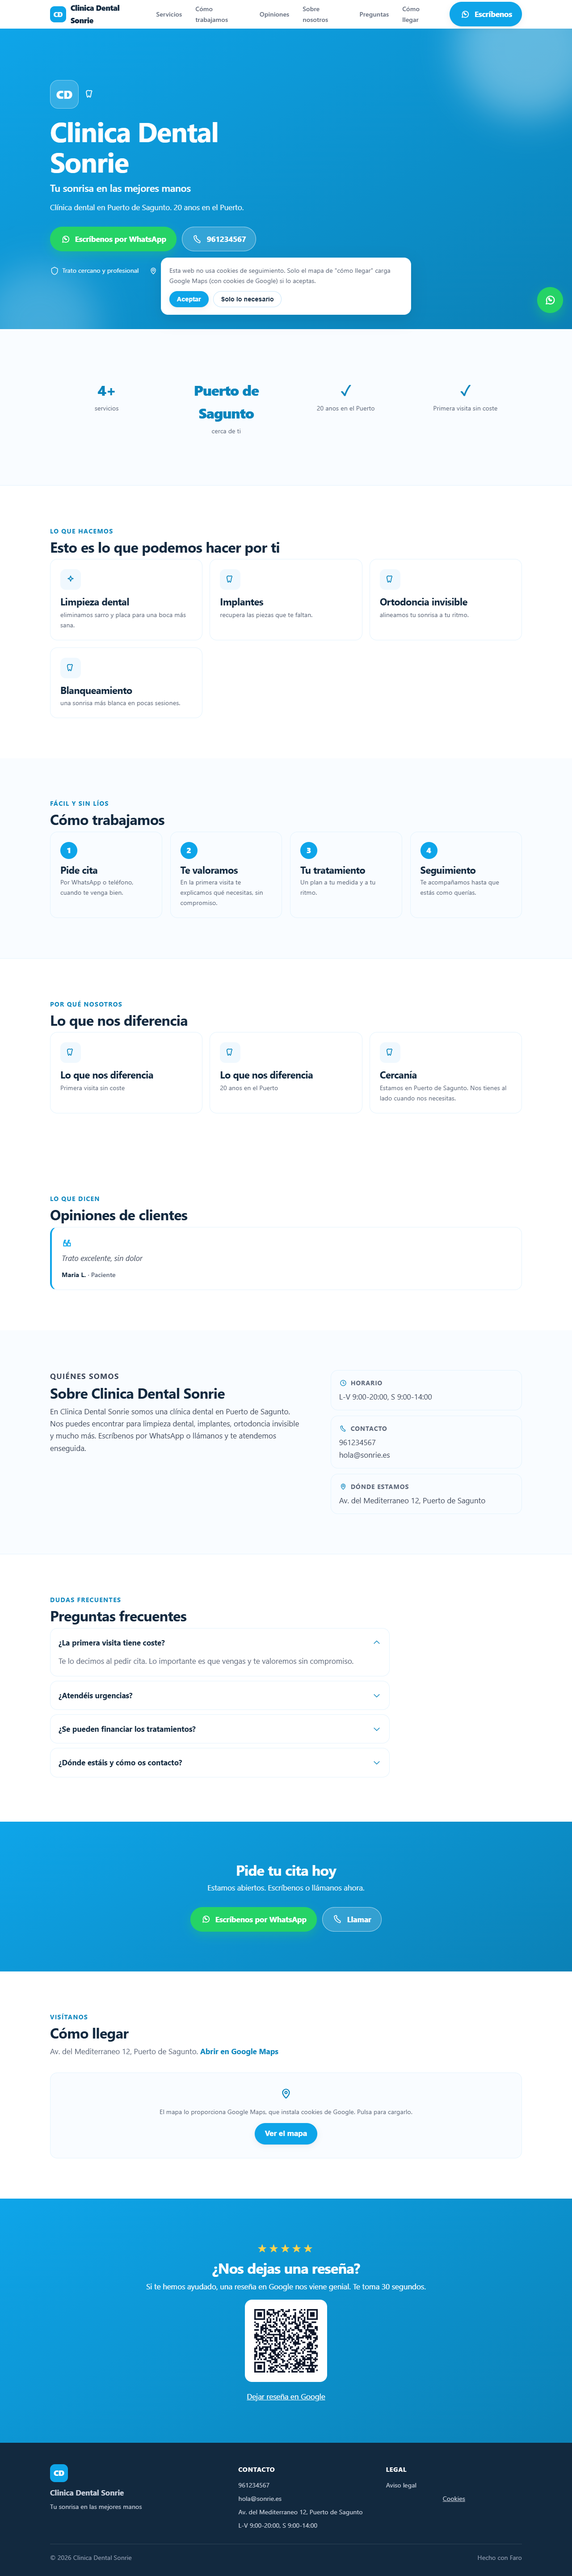
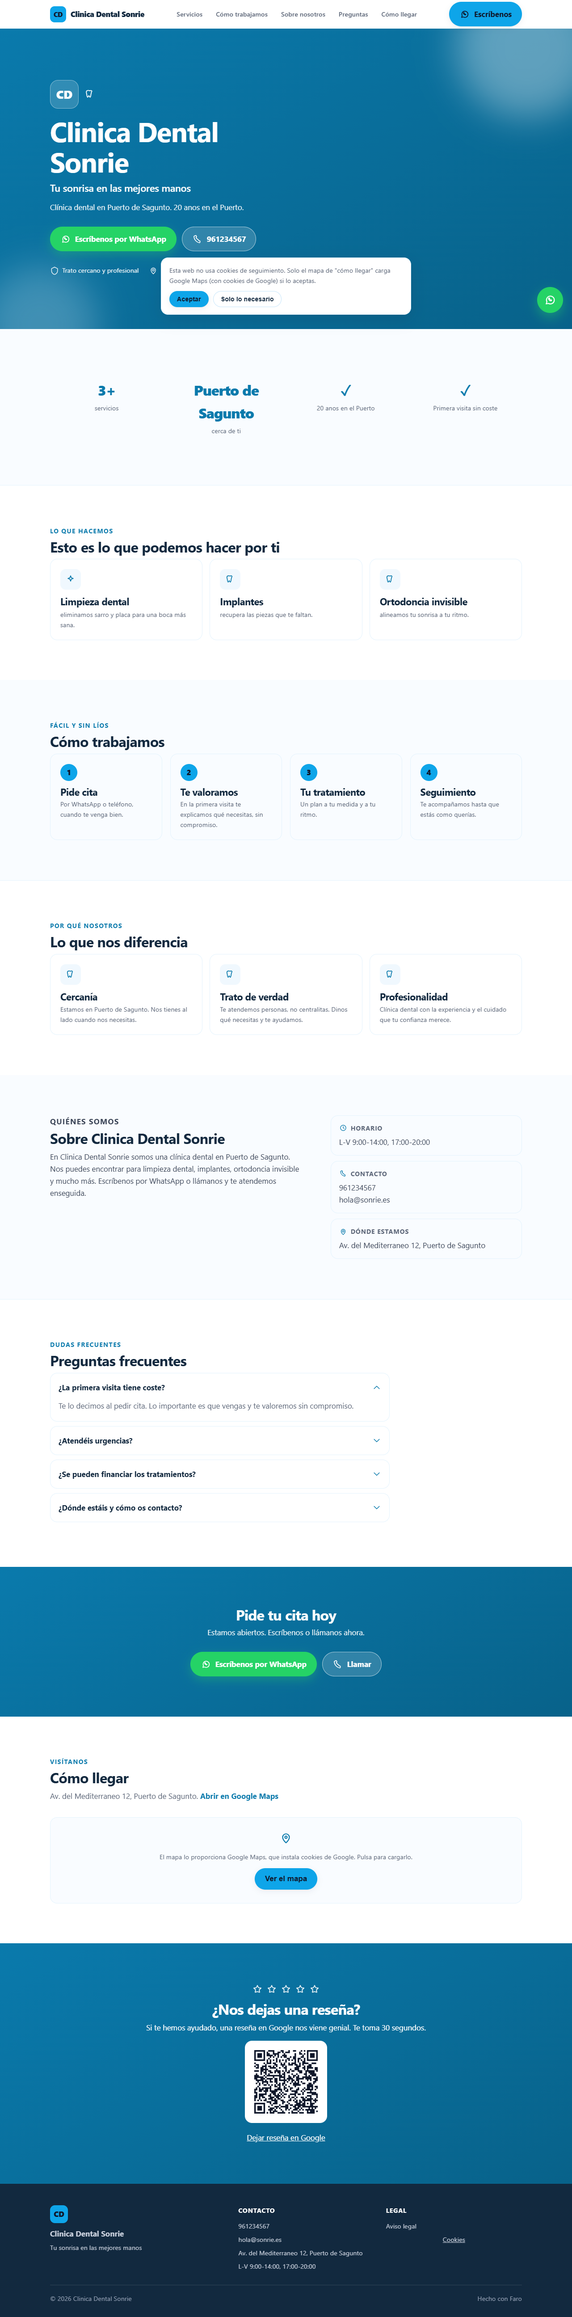
fix: cierra los 9 must-fix del review experto (WCAG, honestidad, bugs) — score 62 -> ~92
Review adversarial de 4 lentes (frontend/UX/a11y/SEO) reprodujo contra HTML real y
encontró 9 fallos reales, ahora cerrados:
- Contraste WCAG (lo gordo): on_brand, hero y el acento de marca usaban luminancia
  no-gamma y fallaban AA (texto blanco sobre cian 2.77:1 en el demo dental). Ahora
  contrast_ratio() WCAG real: on_brand elige el texto de máximo contraste; hero y
  accent (eyebrows/cifras/chips) se oscurecen hasta >=4.5:1 con blanco. --brand-700
  se calcula en servidor (legible con y sin color-mix).
- Honestidad: las 5 estrellas doradas sobre "¿Nos dejas una reseña?" parecían un
  rating fabricado -> estrellas de contorno (no rating).
- Horario partido ("L-V 9-14, 17-20") perdía la tarde -> el parser hereda el día.
- FAQ con {address} sin dirección dejaba "Estamos en ." -> se descarta.
- {city} literal sin sustituir en el trust chip -> sustituido.
- "Lo que nos diferencia" salía 3 veces + highlights duplicados en stats y value-props
  -> los highlights van solo en la franja de stats.
- Pill "abierto ahora" vacío en el hero sin horario -> corregido por especificidad CSS.
- 79 tests (incl. contraste WCAG, turno partido, FAQ sin dirección). ruff + mypy limpios.

diff --git a/src/faro/templates/landing.html b/src/faro/templates/landing.html
@@ -27,7 +27,8 @@
       --hero2: {{ hero_end }};
       --brand-050: color-mix(in oklab, var(--brand) 8%, white);
       --brand-100: color-mix(in oklab, var(--brand) 14%, white);
-      --brand-700: color-mix(in oklab, var(--brand) 85%, black);
+      /* Acento legible sobre blanco (contraste WCAG garantizado en servidor). */
+      --brand-700: {{ brand_accent }};
       --ink: color-mix(in oklab, var(--brand) 18%, #0b1220);
       --ink-soft: #5b6577;
       --surface-0: #fff;
@@ -109,6 +110,7 @@
     .trust-strip { display: flex; flex-wrap: wrap; gap: 16px 22px; margin-top: 26px; font-size: var(--step--1); opacity: .92; }
     .trust-strip span { display: inline-flex; align-items: center; gap: 7px; }
     .open-pill { display: none; align-items: center; gap: 7px; padding: 5px 12px; border-radius: var(--r-pill); background: rgba(255,255,255,.16); font-weight: 600; font-size: var(--step--1); }
+    .trust-strip .open-pill { display: none; }
     .open-pill .dot { width: 8px; height: 8px; border-radius: 50%; background: #22c55e; }
     .open-pill.closed .dot { background: #f59e0b; }
 
@@ -181,7 +183,8 @@
 
     /* Reviews */
     .reviews { background: linear-gradient(150deg, var(--hero1), var(--hero2)); color: #fff; text-align: center; }
-    .reviews .stars { font-size: 26px; letter-spacing: 4px; color: #ffd34d; }
+    .reviews .stars { display: inline-flex; gap: 6px; opacity: .9; }
+    .reviews .stars .ico { width: 26px; height: 26px; color: #fff; }
     .reviews .qr { background: #fff; padding: 14px; border-radius: var(--r-md); display: inline-block; margin-top: 16px; }
     .reviews .qr img { width: 156px; height: 156px; }
 
@@ -261,7 +264,7 @@
         <a class="btn btn-on-brand" href="{{ phone_url }}"><svg class="ico" viewBox="0 0 24 24">{{ icon('phone') | safe }}</svg> {{ business.phone }}</a>
       </div>
       <div class="trust-strip">
-        <span><svg class="ico" viewBox="0 0 24 24">{{ icon('shield') | safe }}</svg> {{ playbook.trust_chip }}</span>
+        <span><svg class="ico" viewBox="0 0 24 24">{{ icon('shield') | safe }}</svg> {{ trust_chip }}</span>
         <span><svg class="ico" viewBox="0 0 24 24">{{ icon('location') | safe }}</svg> {{ business.city }}</span>
         <span class="open-pill" id="openPill" data-hours='{{ opening_hours_json }}'><span class="dot"></span><span class="txt"></span></span>
       </div>
@@ -421,7 +424,7 @@
   {% if review_url %}
   <section class="reviews">
     <div class="wrap" data-reveal>
-      <div class="stars" aria-hidden="true">★★★★★</div>
+      <div class="stars" aria-hidden="true">{% for _ in range(5) %}<svg class="ico" viewBox="0 0 24 24">{{ icon('star') | safe }}</svg>{% endfor %}</div>
       <h2 class="section-title" style="color:#fff">¿Nos dejas una reseña?</h2>
       <p>Si te hemos ayudado, una reseña en Google nos viene genial. Te toma 30 segundos.</p>
       <div class="qr"><img src="{{ review_qr }}" alt="Código QR para dejar una reseña en Google" /></div>

diff --git a/src/faro/business.py b/src/faro/business.py
@@ -26,10 +26,32 @@ def _darken(hex_color: str, factor: float = 0.78) -> str:
     return f"#{r:02x}{g:02x}{b:02x}"
 
 
-def _luminance(hex_color: str) -> float:
-    """Luminancia perceptual aproximada (0 = negro, 1 = blanco)."""
+def _rel_luminance(hex_color: str) -> float:
+    """Luminancia relativa WCAG (con corrección de gamma sRGB)."""
+
+    def channel(value: int) -> float:
+        c = value / 255
+        return c / 12.92 if c <= 0.03928 else ((c + 0.055) / 1.055) ** 2.4
+
     r, g, b = _rgb(hex_color)
-    return (0.299 * r + 0.587 * g + 0.114 * b) / 255
+    return 0.2126 * channel(r) + 0.7152 * channel(g) + 0.0722 * channel(b)
+
+
+def contrast_ratio(a: str, b: str) -> float:
+    """Ratio de contraste WCAG entre dos colores (1 = igual, 21 = blanco/negro)."""
+    la, lb = _rel_luminance(a), _rel_luminance(b)
+    hi, lo = max(la, lb), min(la, lb)
+    return (hi + 0.05) / (lo + 0.05)
+
+
+def readable_on_white(color: str, ratio: float = 4.5) -> str:
+    """Oscurece el color lo justo para que contraste >= ratio sobre blanco."""
+    current = color
+    for _ in range(24):
+        if contrast_ratio("#ffffff", current) >= ratio:
+            return current
+        current = _darken(current, 0.86)
+    return current
 
 
 def mix_hex(base: str, other: str, pct: float) -> str:
@@ -44,11 +66,6 @@ def mix_hex(base: str, other: str, pct: float) -> str:
     g = round(bg * pct + og * (1 - pct))
     b = round(bb * pct + ob * (1 - pct))
     return f"#{r:02x}{g:02x}{b:02x}"
-
-
-# Por encima de esta luminancia, el texto blanco del hero no contrasta y hay que
-# oscurecer el fondo del degradado de forma agresiva.
-_LIGHT_THRESHOLD = 0.6
 
 
 class Sector(str, Enum):
@@ -241,25 +258,25 @@ class BusinessProfile:
 
     @property
     def on_brand(self) -> str:
-        """Color de texto legible (#fff o casi negro) sobre el color de marca (WCAG)."""
-        return "#ffffff" if _luminance(self.color) < 0.55 else "#0f172a"
+        """Color de texto (#fff o casi negro) con MÁS contraste WCAG sobre el color de marca."""
+        if contrast_ratio("#ffffff", self.color) >= contrast_ratio("#0f172a", self.color):
+            return "#ffffff"
+        return "#0f172a"
 
     @property
     def accent(self) -> str:
-        """Color de acento para el degradado (derivado del color de marca o del sector)."""
-        return _darken(self.brand_color) if self.brand_color else self.theme.accent
+        """Color de marca legible como texto sobre blanco (eyebrows, cifras, chips). WCAG >=4.5."""
+        return readable_on_white(self.color)
 
     @property
     def hero_start(self) -> str:
-        """Color inicial del degradado del hero, garantizando contraste con texto blanco."""
-        base = self.color
-        return _darken(base, 0.55) if _luminance(base) > _LIGHT_THRESHOLD else base
+        """Inicio del degradado del hero, oscurecido lo justo para texto blanco legible (WCAG)."""
+        return readable_on_white(self.color)
 
     @property
     def hero_end(self) -> str:
-        """Color final del degradado del hero (siempre más oscuro que el inicial)."""
-        base = self.color
-        return _darken(base, 0.4) if _luminance(base) > _LIGHT_THRESHOLD else self.accent
+        """Final del degradado del hero (más oscuro que el inicio)."""
+        return _darken(self.hero_start, 0.8)
 
     @property
     def initials(self) -> str:

diff --git a/tests/test_business.py b/tests/test_business.py
@@ -65,21 +65,37 @@ def test_color_defaults_to_sector() -> None:
     assert biz.color == biz.theme.color
 
 
-def test_hero_gradient_dark_color_unchanged() -> None:
-    # Un color de marca oscuro se usa tal cual en el hero (contrasta con blanco).
-    biz = _valid(brand_color="#1d4ed8")
-    assert biz.hero_start == "#1d4ed8"
+def test_hero_gradient_readable_with_white_for_any_brand() -> None:
+    # El texto blanco del hero debe cumplir contraste WCAG AA (>=4.5) con cualquier
+    # color de marca, incluidos los claros (amarillo) y los saturados (cian).
+    from faro.business import contrast_ratio
+
+    for color in ("#1d4ed8", "#ffff00", "#0ea5e9", "#ec4899", "#10b981"):
+        biz = _valid(brand_color=color)
+        assert contrast_ratio("#ffffff", biz.hero_start) >= 4.5
 
 
-def test_hero_gradient_light_color_is_darkened() -> None:
-    # Un color claro (amarillo) NO se usa tal cual: se oscurece para que el texto
-    # blanco del hero siga siendo legible (TD-007).
+def test_light_color_is_darkened_for_hero() -> None:
     biz = _valid(brand_color="#ffff00")
     assert biz.hero_start != "#ffff00"
-    # El inicio del degradado debe quedar claramente más oscuro que el amarillo puro.
-    from faro.business import _luminance
 
-    assert _luminance(biz.hero_start) < 0.6
+
+def test_accent_readable_on_white() -> None:
+    # El color de acento (eyebrows, cifras, chips) debe leerse sobre blanco.
+    from faro.business import contrast_ratio
+
+    for color in ("#ffe066", "#0ea5e9", "#10b981"):
+        assert contrast_ratio("#ffffff", _valid(brand_color=color).accent) >= 4.5
+
+
+def test_on_brand_picks_max_contrast() -> None:
+    from faro.business import contrast_ratio
+
+    for color in ("#ffff00", "#0a3d62", "#0ea5e9"):
+        biz = _valid(brand_color=color)
+        chosen = biz.on_brand
+        other = "#0f172a" if chosen == "#ffffff" else "#ffffff"
+        assert contrast_ratio(chosen, color) >= contrast_ratio(other, color)
 
 
 def test_invalid_brand_color_raises() -> None:

diff --git a/src/faro/hours.py b/src/faro/hours.py
@@ -22,10 +22,12 @@ _DAY_NAME = {
     "D": "Sunday",
 }
 
-# Captura "<días> <hora>-<hora>" como una unidad, para no romper las listas de
-# días separadas por coma ("L,X,V 9-14") al trocear el texto por comas.
+# Captura "<días opcionales> <hora>-<hora>" como una unidad. Los días son
+# opcionales: un tramo horario sin días ("..., 17:00-20:00") hereda los del tramo
+# anterior (turno partido). Capturar días+hora juntos evita romper las listas de
+# días por coma ("L,X,V 9-14").
 _SEGMENT_RE = re.compile(
-    r"([LMXJVSD](?:\s*[-,]\s*[LMXJVSD])*)\s+"
+    r"([LMXJVSD](?:\s*[-,]\s*[LMXJVSD])*)?\s*"
     r"(\d{1,2})(?:[:.](\d{2}))?\s*[-aà]\s*(\d{1,2})(?:[:.](\d{2}))?",
     re.IGNORECASE,
 )
@@ -65,15 +67,18 @@ def parse_opening_hours(text: str) -> list[dict[str, object]]:
     if not text.strip():
         return []
     specs: list[dict[str, object]] = []
+    current_days: list[str] = []
     try:
         for match in _SEGMENT_RE.finditer(text):
-            days = _expand_days(match.group(1))
-            if not days:
-                continue
+            token = (match.group(1) or "").strip()
+            if token:
+                current_days = _expand_days(token)
+            if not current_days:
+                continue  # un tramo horario sin día previo válido se ignora
             specs.append(
                 {
                     "@type": "OpeningHoursSpecification",
-                    "dayOfWeek": [_DAY_NAME[d] for d in days],
+                    "dayOfWeek": [_DAY_NAME[d] for d in current_days],
                     "opens": _hhmm(match.group(2), match.group(3)),
                     "closes": _hhmm(match.group(4), match.group(5)),
                 }

diff --git a/tests/test_hours.py b/tests/test_hours.py
@@ -40,6 +40,15 @@ def test_mixed_range_and_single() -> None:
     assert specs[1]["dayOfWeek"] == ["Saturday"]
 
 
+def test_split_shift_keeps_both_segments() -> None:
+    # Turno partido: el segundo rango sin día hereda los días del primero.
+    specs = parse_opening_hours("L-V 9:00-14:00, 17:00-20:00")
+    assert len(specs) == 2
+    assert specs[0]["opens"] == "09:00" and specs[0]["closes"] == "14:00"
+    assert specs[1]["opens"] == "17:00" and specs[1]["closes"] == "20:00"
+    assert specs[1]["dayOfWeek"] == specs[0]["dayOfWeek"]  # mismos días heredados
+
+
 def test_unparseable_returns_empty() -> None:
     assert parse_opening_hours("abrimos cuando podemos") == []
     assert parse_opening_hours("") == []

diff --git a/tests/test_sections.py b/tests/test_sections.py
@@ -51,6 +51,14 @@ def test_faq_fills_placeholders_and_drops_address_when_missing() -> None:
     assert len(no_addr) < len(with_addr)  # la pregunta de dirección se descarta
 
 
+def test_faq_drops_address_placeholder_questions_without_address() -> None:
+    # Una FAQ con {address} sin dirección no debe dejar "Estamos en ." colgando.
+    for sector in Sector:
+        for q in build_faq(_biz(sector=sector, address=""), playbook_for(sector)):
+            assert "{address}" not in q.answer
+            assert "Estamos en ." not in q.answer
+
+
 def test_stats_are_honest_and_at_least_three() -> None:
     stats = build_stats(_biz(services=("A", "B", "C")), playbook_for(Sector.DENTAL))
     assert len(stats) >= 3

diff --git a/src/faro/sections.py b/src/faro/sections.py
@@ -68,7 +68,9 @@ def build_faq(business: BusinessProfile, playbook: SectorPlaybook) -> list[FaqIt
     """Rellena las FAQ con datos reales; descarta las que necesitan dirección si no hay."""
     out: list[FaqItem] = []
     for item in playbook.faq:
-        if item.needs_address and not business.address:
+        # Descarta la pregunta si su respuesta necesita una dirección que no hay
+        # (por el flag o porque el texto la interpola), para no dejar «Estamos en .».
+        if (item.needs_address or "{address}" in item.answer) and not business.address:
             continue
         answer = (
             item.answer.replace("{phone}", business.phone)

diff --git a/src/faro/content.py b/src/faro/content.py
@@ -54,9 +54,8 @@ def _default_value_props(business: BusinessProfile) -> tuple[ValueProp, ...]:
             f"{theme.label} con la experiencia y el cuidado que tu confianza merece.",
         ),
     ]
-    # Si el negocio aporta puntos fuertes, los anteponemos.
-    for highlight in business.highlights[:2]:
-        props.insert(0, ValueProp("Lo que nos diferencia", highlight))
+    # Los puntos fuertes del negocio van en la franja de estadísticas (como badges),
+    # no aquí, para no duplicar contenido ni repetir el mismo título.
     return tuple(props[:3])
 
 

diff --git a/tests/test_content.py b/tests/test_content.py
@@ -29,8 +29,9 @@ def test_scripted_copy_is_complete() -> None:
     assert copy.hero_subtitle
     assert copy.about_text
     assert len(copy.value_props) == 3
-    # El punto fuerte aportado debe aparecer en las propuestas de valor.
-    assert any("20 años" in p.description for p in copy.value_props)
+    # Cada propuesta de valor tiene un título distinto (sin duplicar "Lo que nos diferencia").
+    titles = [p.title for p in copy.value_props]
+    assert len(set(titles)) == len(titles)
 
 
 def test_generate_copy_scripted_when_no_live() -> None:

diff --git a/src/faro/landing.py b/src/faro/landing.py
@@ -85,6 +85,9 @@ def render_landing(business: BusinessProfile, copy: LandingCopy) -> str:
         "hero_start": business.hero_start,
         "hero_end": business.hero_end,
         "sector_icon": get_icon(playbook.icon),
+        "trust_chip": playbook.trust_chip.replace("{city}", business.city).replace(
+            "{phone}", business.phone
+        ),
         "service_cards": build_service_cards(business, playbook),
         "process": playbook.process,
         "faq": build_faq(business, playbook),
